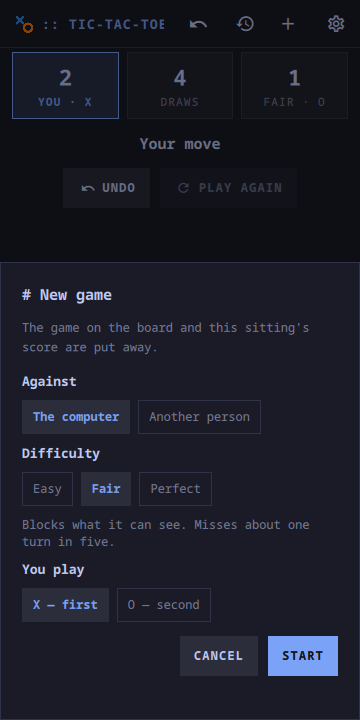
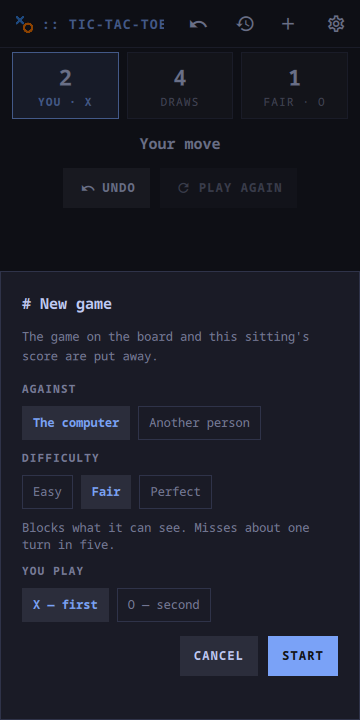
Tic-tac-toe's new-game labels are small capitals too
Against, Difficulty and You play label groups of choices, so they read as
the kit's labels do rather than as three headings.

diff --git a/apps/tictactoe/Panel.qml b/apps/tictactoe/Panel.qml
@@ -305,10 +305,12 @@ App {
 
     Text {
       text: "Against"
-      color: root.ui.text
+      color: root.ui.muted
       font.family: root.ui.font
-      font.pixelSize: root.ui.fs.md
+      font.pixelSize: root.ui.fs.xs
       font.weight: Font.Bold
+      font.capitalization: Font.AllUppercase
+      font.letterSpacing: root.ui.tracking
     }
     Flow {
       width: parent.width
@@ -319,10 +321,12 @@ App {
     Text {
       visible: newGame.mode === S.SOLO
       text: "Difficulty"
-      color: root.ui.text
+      color: root.ui.muted
       font.family: root.ui.font
-      font.pixelSize: root.ui.fs.md
+      font.pixelSize: root.ui.fs.xs
       font.weight: Font.Bold
+      font.capitalization: Font.AllUppercase
+      font.letterSpacing: root.ui.tracking
     }
     Flow {
       visible: newGame.mode === S.SOLO
@@ -350,10 +354,12 @@ App {
     }
     Text {
       text: newGame.mode === S.SOLO ? "You play" : "Player one plays"
-      color: root.ui.text
+      color: root.ui.muted
       font.family: root.ui.font
-      font.pixelSize: root.ui.fs.md
+      font.pixelSize: root.ui.fs.xs
       font.weight: Font.Bold
+      font.capitalization: Font.AllUppercase
+      font.letterSpacing: root.ui.tracking
     }
     Flow {
       width: parent.width
